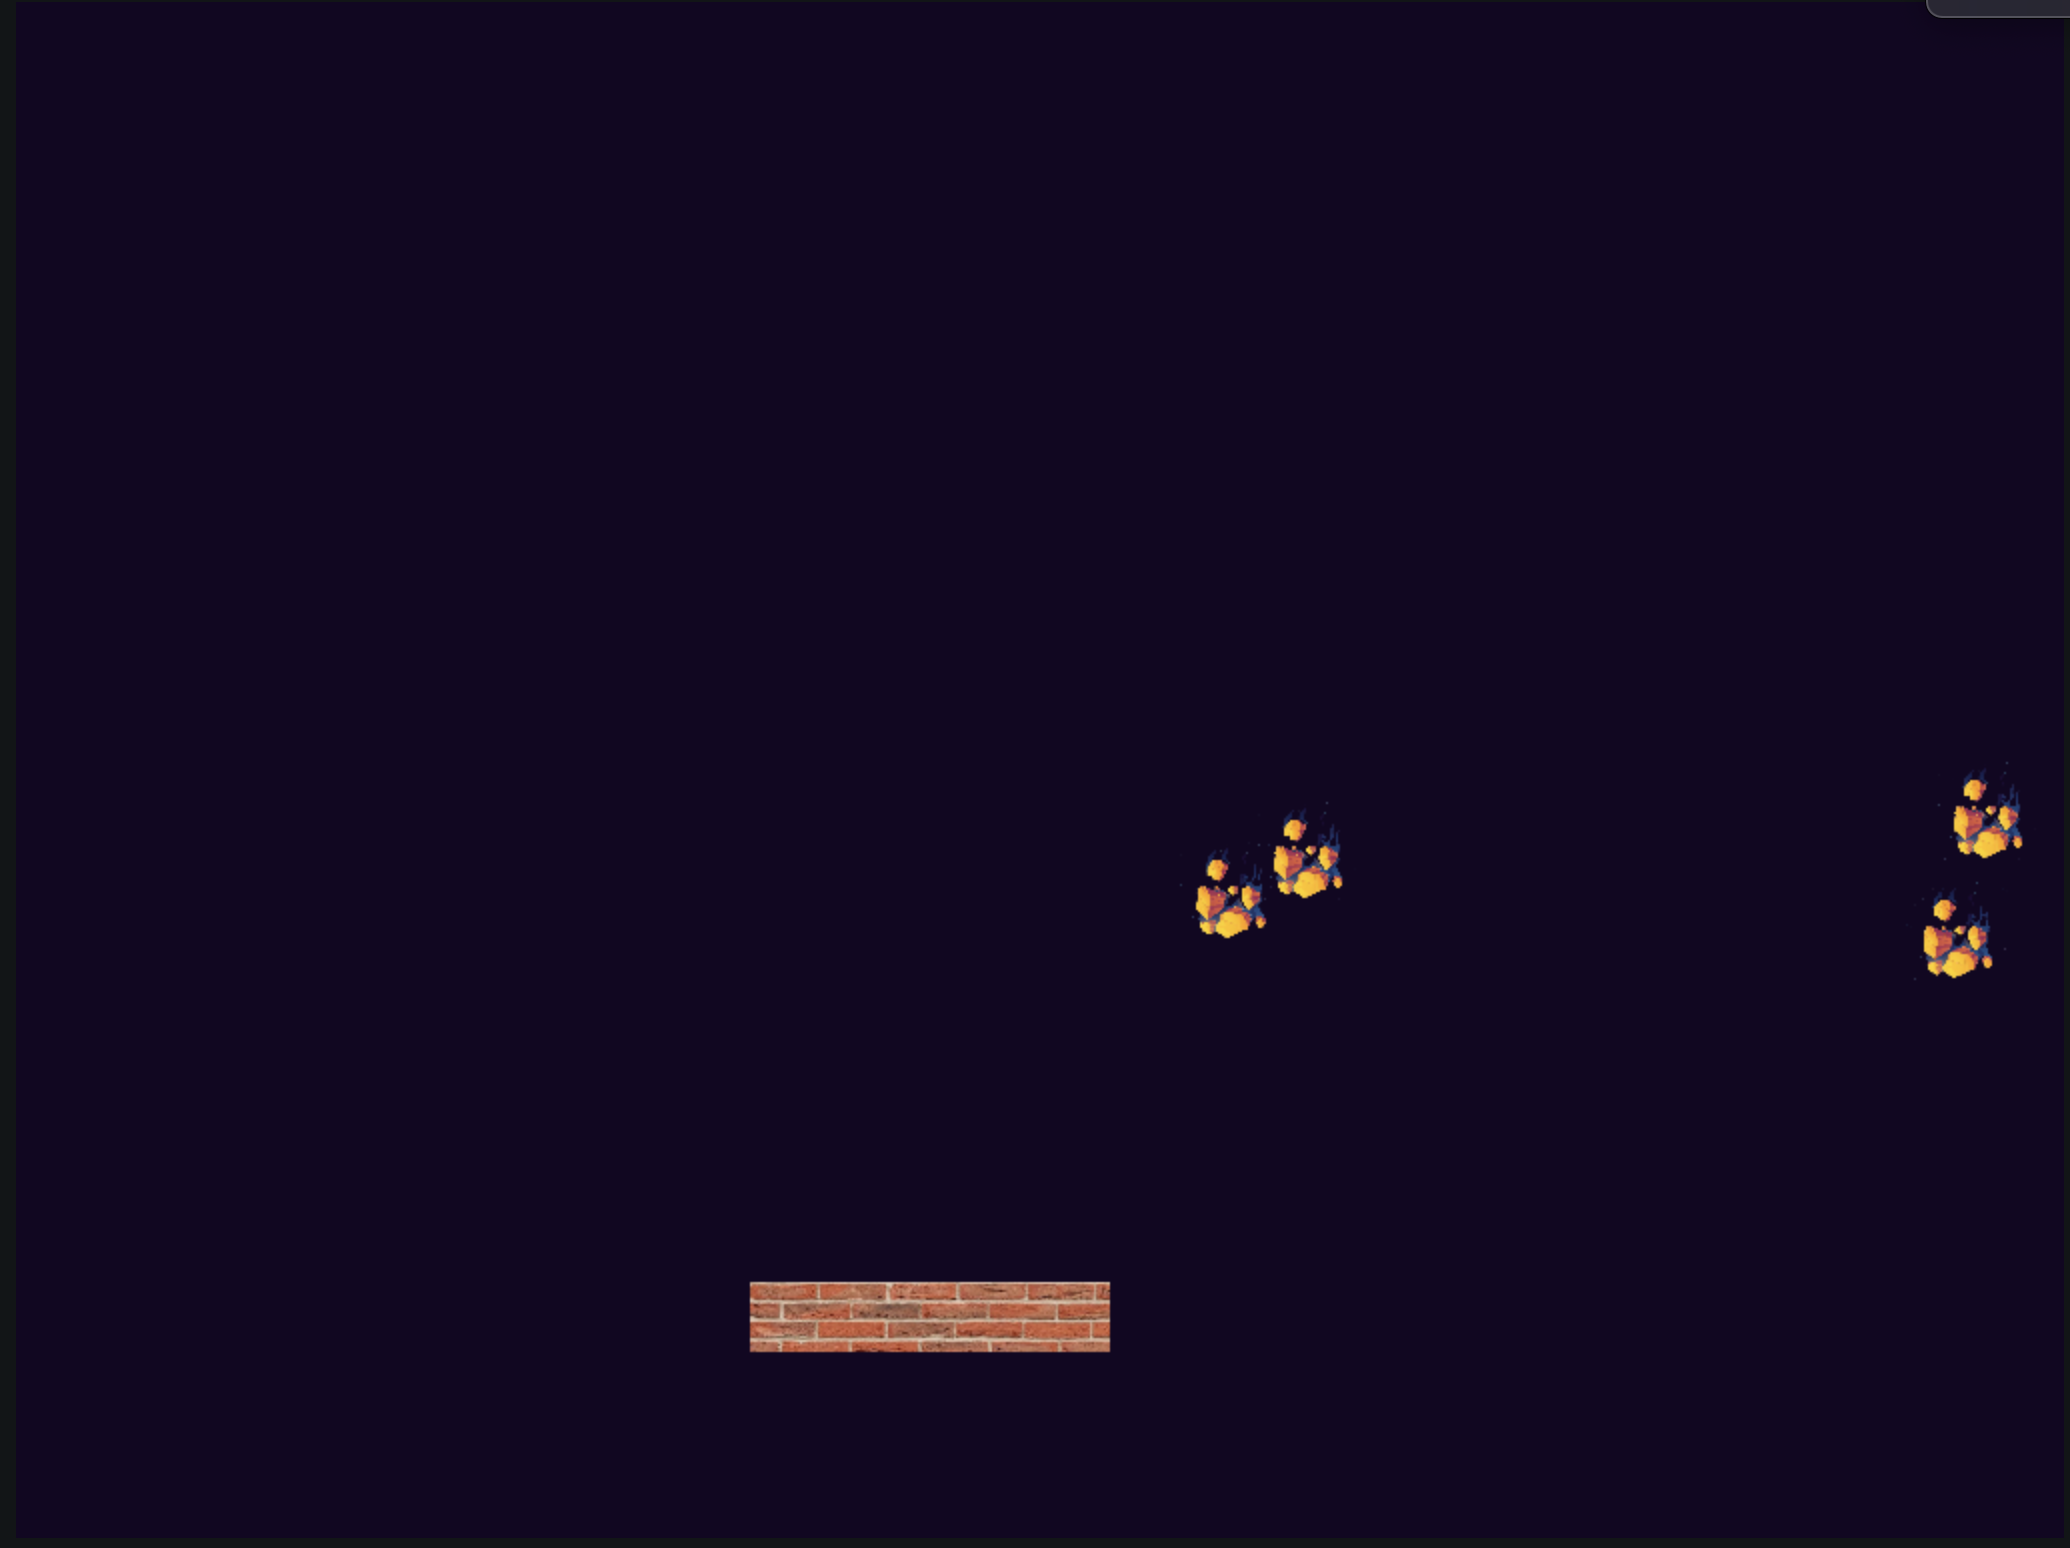
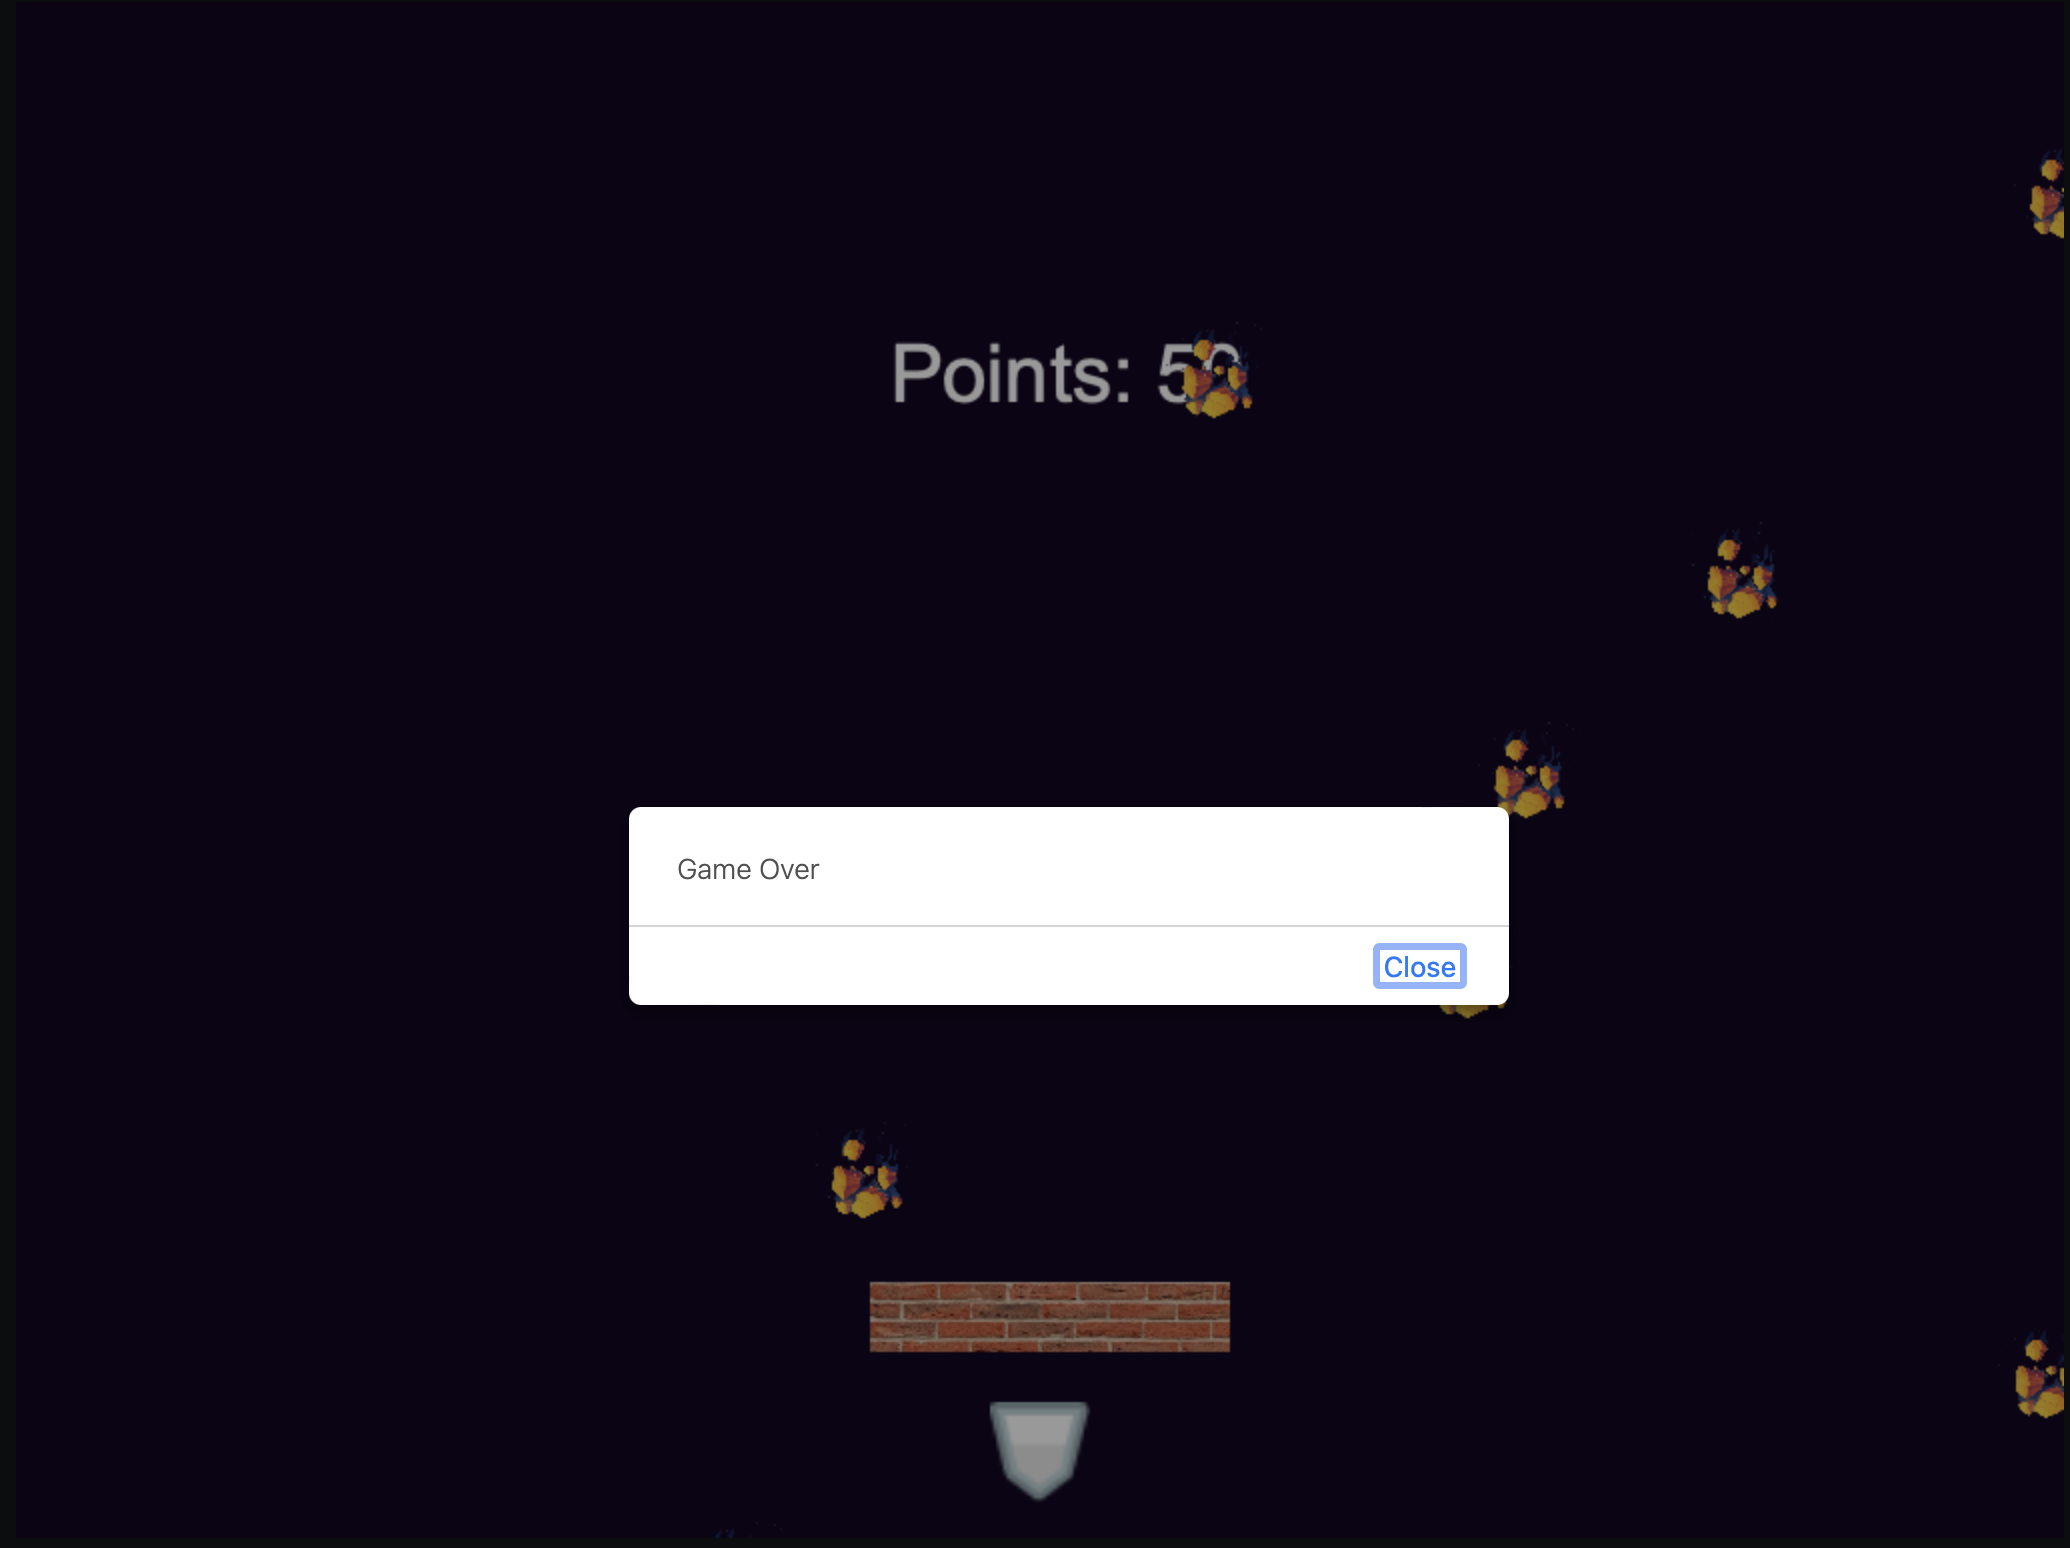
Add life, points display

diff --git a/Meteor-hitting-earth/app.js b/Meteor-hitting-earth/app.js
@@ -46,6 +46,17 @@ class Player extends GameObject {
     this.type = "player";
     this.width = 180;
     this.height = 35;
+    this.life = 3;
+    this.points = 0;
+  }
+  decrementLife() {
+    this.life--;
+    if (this.life === 0) {
+      this.dead = true;
+    }
+  }
+  incrementPoints() {
+    this.points += 10;
   }
 }
 
@@ -87,7 +98,8 @@ function intersectRect(r1, r2) {
 const Messages = {
   KEY_EVENT_LEFT: "PLAYER_MOVE_LEFT",
   KEY_EVENT_RIGHT: "PLAYER_MOVE_RIGHT",
-  COLLISION: "COLLISION",
+  COLLISION_METEOR: "COLLISION",
+  HURT_PLAYER: "HURT_PLAYER",
 };
 
 let ctx,
@@ -95,7 +107,9 @@ let ctx,
   playerImg,
   meteor,
   meteorImg,
+  lifeImg,
   gameObjects = [],
+  gameLoopId,
   eventEmitter = new EventEmitter();
 
 let onKeyDown = function (evt) {
@@ -122,7 +136,7 @@ function createPlayer() {
 }
 
 function createMeteor() {
-  let START_X = Math.random() * canvas.width;
+  let START_X = 50 + Math.random() * (canvas.width - 50);
   meteor = new Meteor(START_X, 0);
   meteor.img = meteorImg;
   gameObjects.push(meteor);
@@ -135,11 +149,27 @@ function updateGameObjects() {
     if (
       intersectRect(player.rectFromGameObject(), meteor.rectFromGameObject())
     ) {
-      eventEmitter.emit(Messages.COLLISION, { deadObj: meteor });
+      eventEmitter.emit(Messages.COLLISION_METEOR, { deadObj: meteor });
+    } else if (meteor.y >= canvas.height) {
+      eventEmitter.emit(Messages.HURT_PLAYER, { deadObj: meteor });
     }
   });
 
   gameObjects = gameObjects.filter((obj) => !obj.dead);
+}
+
+function drawLife(ctx) {
+  const START_POS = canvas.width / 2 - (player.life * 50) / 2;
+  for (let i = 0; i < player.life; i++) {
+    ctx.drawImage(lifeImg, START_POS + i * 50, 700, 50, 50);
+  }
+}
+
+function drawPoints(ctx) {
+  ctx.font = "40px Arial";
+  ctx.fillStyle = "white";
+  ctx.textAlign = "left";
+  ctx.fillText("Points: " + player.points, canvas.width / 2 - 75, 200);
 }
 
 function drawGameObjects(ctx) {
@@ -152,7 +182,7 @@ function initGame() {
   gameObjects = [];
   createPlayer();
   createMeteor();
-  setInterval(() => createMeteor(), 10000);
+  setInterval(() => createMeteor(), 1000);
 
   eventEmitter.on(Messages.KEY_EVENT_LEFT, () => {
     player.x -= 10;
@@ -162,9 +192,24 @@ function initGame() {
     player.x += 10;
   });
 
-  eventEmitter.on(Messages.COLLISION, (_, { deadObj }) => {
-    deadObj.dead = true;
+  eventEmitter.on(Messages.COLLISION_METEOR, (_, { deadObj: meteor }) => {
+    meteor.dead = true;
+    player.incrementPoints();
   });
+
+  eventEmitter.on(Messages.HURT_PLAYER, (_, { deadObj: meteor }) => {
+    meteor.dead = true;
+    player.decrementLife();
+    if (player.dead) {
+      exitGame();
+    }
+  });
+}
+
+function exitGame() {
+  alert("Game Over");
+  gameObjects = [];
+  clearInterval(gameLoopId);
 }
 
 window.onload = async () => {
@@ -172,12 +217,15 @@ window.onload = async () => {
   ctx = canvas.getContext("2d");
   playerImg = await loadTexture("assets/player.jpeg");
   meteorImg = await loadTexture("assets/meteor.png");
+  lifeImg = await loadTexture("assets/life.png");
 
   initGame();
-  let gameLoopId = setInterval(() => {
+  gameLoopId = setInterval(() => {
     ctx.clearRect(0, 0, canvas.width, canvas.height);
     ctx.fillStyle = "#130723";
     ctx.fillRect(0, 0, canvas.width, canvas.height);
+    drawLife(ctx);
+    drawPoints(ctx);
     updateGameObjects();
     drawGameObjects(ctx);
   }, 100);
